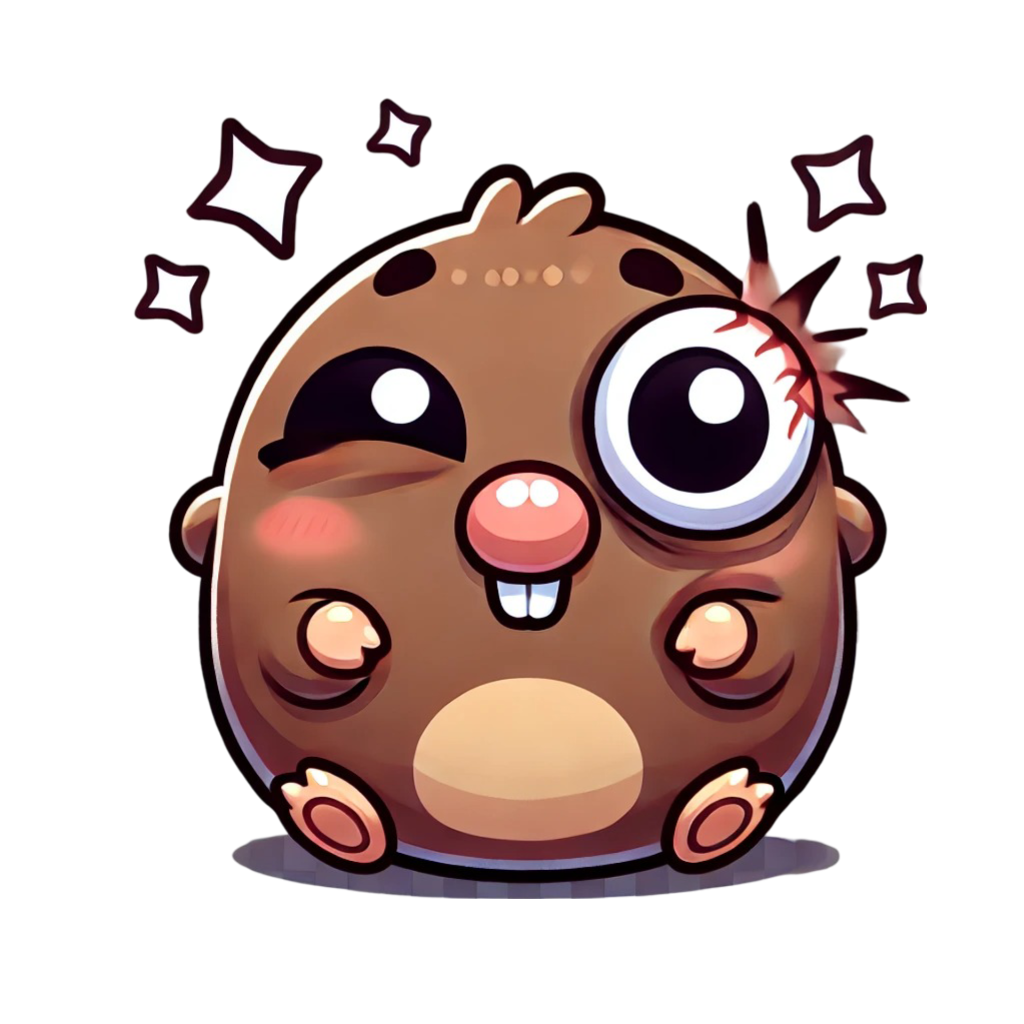
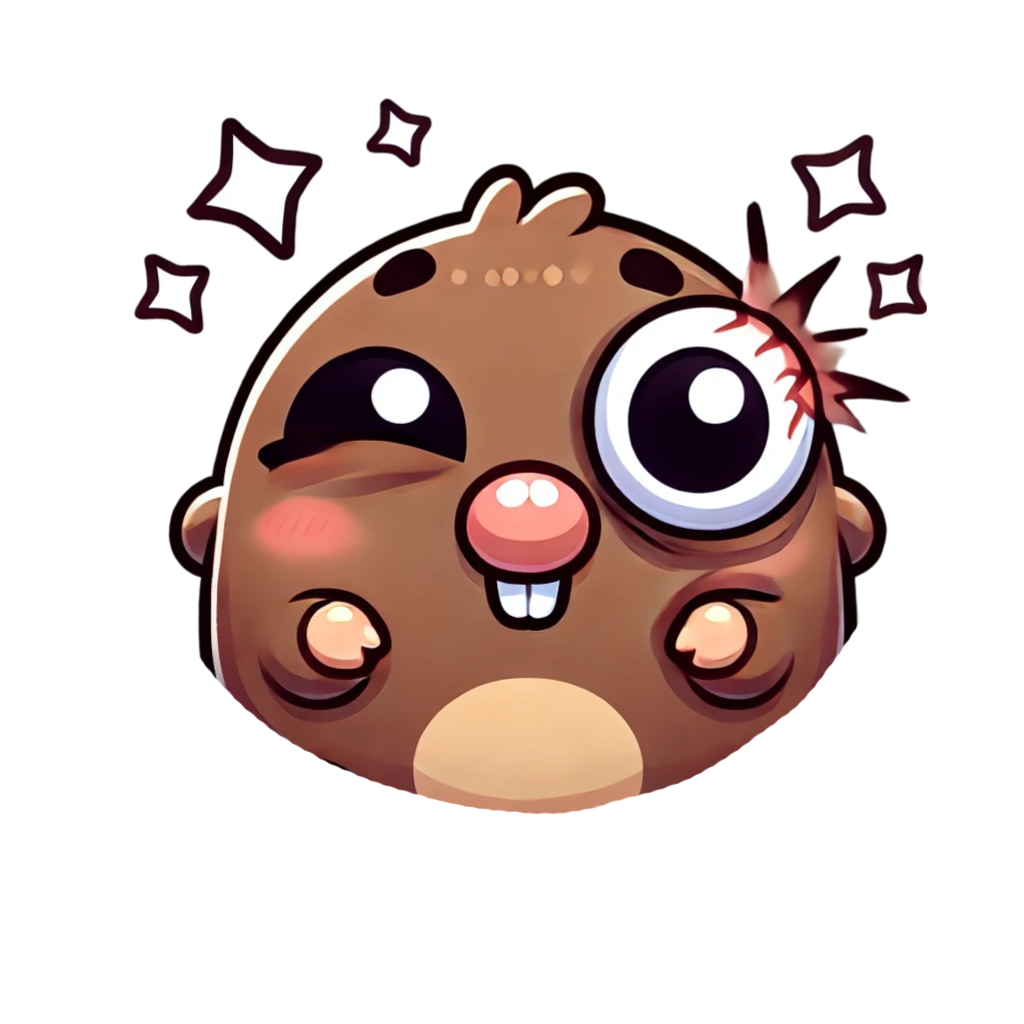
style: update mole animation

Changed region(s): [[0.1875, 0.625, 0.8438, 0.875]]

diff --git a/src/components/panel-cell/styles/panel-cell.styles.css.js b/src/components/panel-cell/styles/panel-cell.styles.css.js
@@ -17,33 +17,36 @@ export const PanelCellStyles = css`
     width: 70%;
     height: 70%;
     cursor: pointer;
+    opacity: 0;
   }
 
   .cell__mole--normal {
     background: url("images/mole.png") no-repeat center;
     background-size: contain;
-    animation: moleAnimation var(--mole-animation-duration) infinite;
+    animation: moleAnimation var(--mole-animation-duration) ease-in-out 1;
   }
 
   .cell__mole--hurt {
     background: url("images/mole-hurt.png") no-repeat center;
     background-size: contain;
-    animation: moleAnimation var(--mole-animation-duration) infinite;
+    animation: none;
+    transform: translateY(-7%);
+
+    opacity: 100%;
   }
 
   @keyframes moleAnimation {
     0% {
       transform: translateY(0%);
-      opacity: 0;
-    }
-
-    20% {
-      transform: translateY(-13%);
       opacity: 100%;
     }
 
+    20% {
+      transform: translateY(-15%);
+    }
+
     70% {
-      transform: translateY(-13%);
+      transform: translateY(-15%);
       opacity: 100%;
     }
 

diff --git a/index.html b/index.html
@@ -7,6 +7,7 @@
   <title>Toca al topo</title>
   <link rel="stylesheet" href="./index.css" />
   <link href="https://fonts.googleapis.com/css2?family=Poppins:wght@700&display=swap" rel="stylesheet">
+  <link href="https://fonts.googleapis.com/css2?family=Russo+One&display=swap" rel="stylesheet">
   <script type="module" src="/src/touch-the-mole.view.js"></script>
 </head>
 
